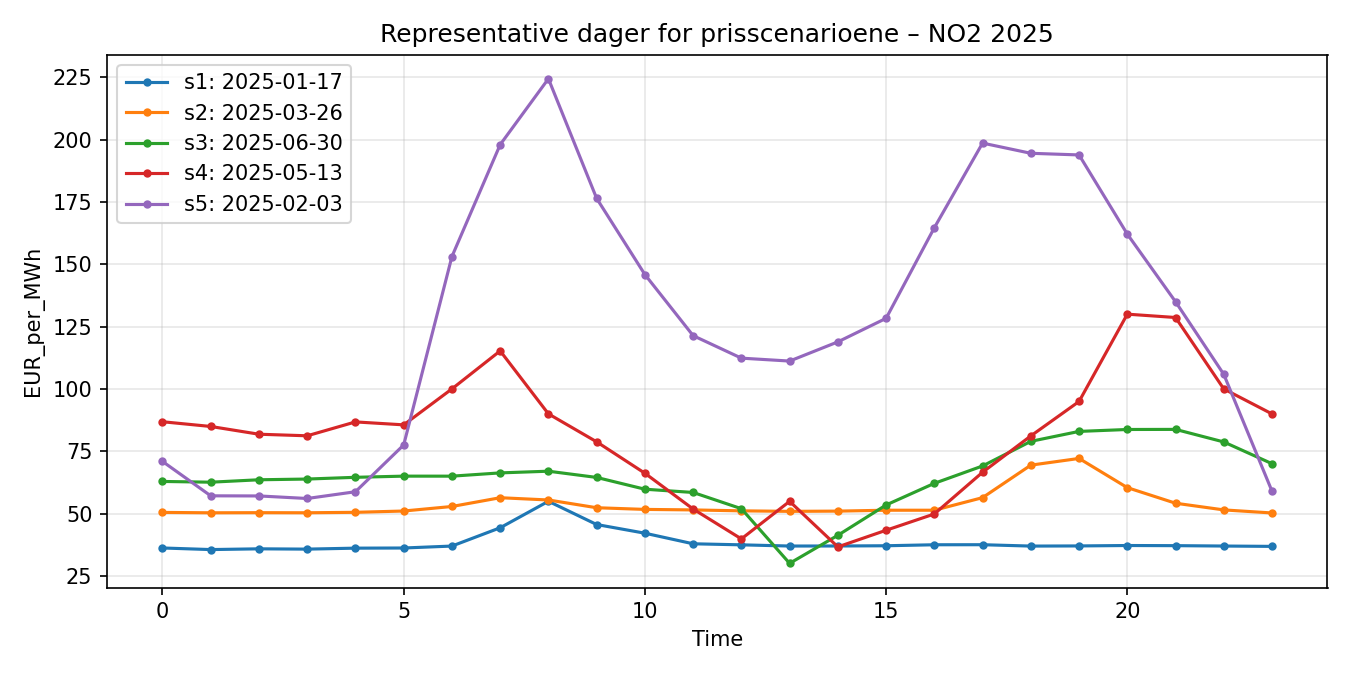
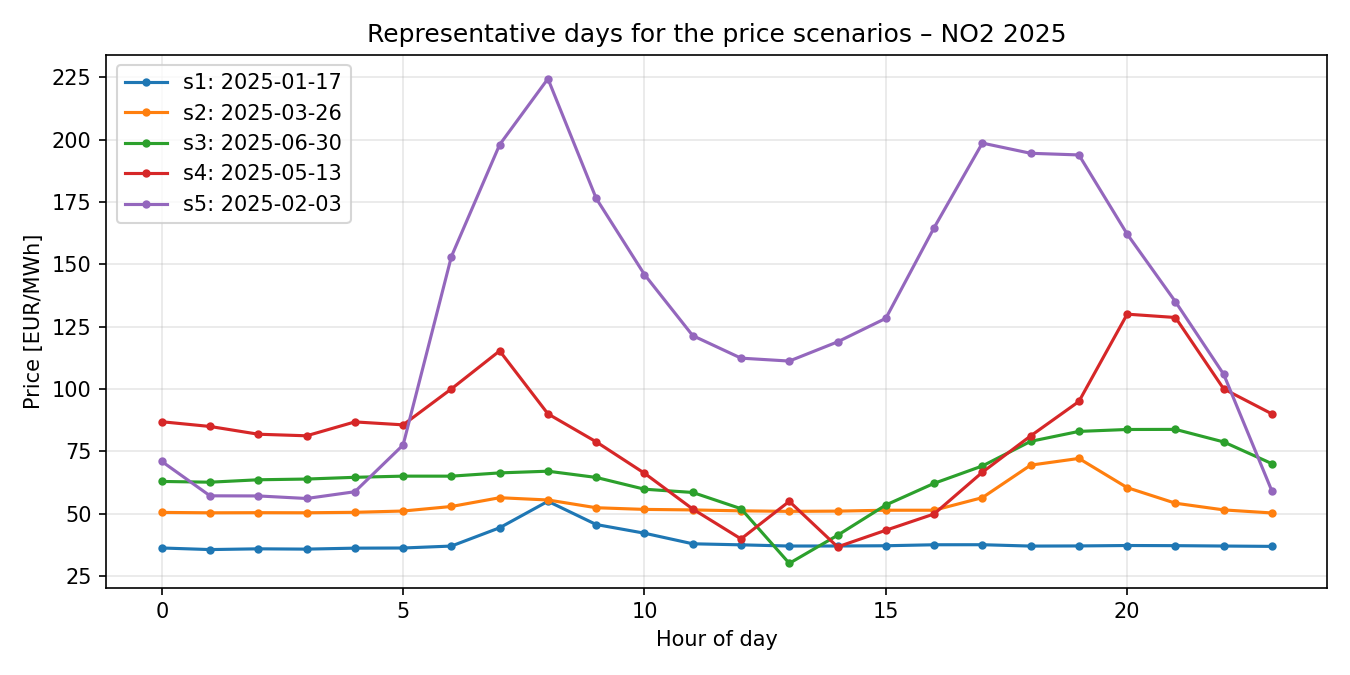
Oversette

diff --git a/vilde/find_scenario_days.py b/vilde/find_scenario_days.py
@@ -1,96 +1,99 @@
 """
-Finner den beste representative dagen for hvert av de fem prisscenarioene:
+Finds the most representative day for each of the five price scenarios:
 
-  s1  Lavt prisnivå med små prisvariasjoner
-  s2  Lavt/moderat prisnivå
-  s3  Normal/typisk prisdag
-  s4  Høyt prisnivå med større prisvariasjoner
-  s5  Ekstrem/høy prisdag med pristopp(er)
+  s1  Low price level with small price variations
+  s2  Low/moderate price level
+  s3  Normal/typical price day
+  s4  High price level with larger price variations
+  s5  Extreme/high price day with price spike(s)
 
-Metode:
-  1. Hver dag beskrives med tre nøkkeltall:
-       snitt – gjennomsnittspris i døgnet       (prisnivå)
-       std   – standardavvik over døgnet         (prisvariasjon)
-       maks  – høyeste timepris i døgnet         (pristopp)
-  2. Nøkkeltallene gjøres om til persentiler (0-100) blant alle årets dager,
-     slik at de blir sammenlignbare selv om de har ulik skala.
-  3. Hvert scenario har et mål i persentiler (se MAL under). Dagen som ligger
-     nærmest målet (euklidsk avstand) velges.
+Method:
+  1. Each day is described by three key figures:
+       mean – average price over the day          (price level)
+       std  – standard deviation over the day     (price variation)
+       max  – highest hourly price of the day     (price spike)
+  2. The key figures are converted to percentiles (0-100) among all days of
+     the year, so they become comparable even though they have different scales.
+  3. Each scenario has a target in percentiles (see TARGETS below). The day
+     closest to the target (Euclidean distance) is selected.
+
+All prices are in EUR/MWh.
 """
 
 import pandas as pd
 import numpy as np
 
-FIL = "NO2_2025_forenklet.csv"
-PRISKOLONNE = "EUR_per_MWh"
-UTFIL = "scenariodager_NO2_2025.csv"
+INPUT_FILE = "NO2_2025_forenklet.csv"
+PRICE_COLUMN = "EUR_per_MWh"   # prices in EUR/MWh
+PRICE_UNIT = "EUR/MWh"
+OUTPUT_FILE = "scenariodager_NO2_2025.csv"      # used by modell/prisdata.py and part2/
+SUMMARY_FILE = "scenario_oppsummering.csv"
 
-# Mål for hvert scenario, i persentiler: (snitt, std, maks)
-# Juster disse om dere vil ha andre definisjoner av scenarioene.
-MAL = {
-    "s1": {"beskrivelse": "Lavt prisnivå, små variasjoner",      "snitt": 10, "std": 10, "maks": 10},
-    "s2": {"beskrivelse": "Lavt/moderat prisnivå",                 "snitt": 30, "std": 30, "maks": 30},
-    "s3": {"beskrivelse": "Normal/typisk prisdag",                 "snitt": 50, "std": 50, "maks": 50},
-    "s4": {"beskrivelse": "Høyt prisnivå, større variasjoner",     "snitt": 80, "std": 80, "maks": 80},
-    "s5": {"beskrivelse": "Ekstrem/høy prisdag med pristopp(er)",  "snitt": 97, "std": 97, "maks": 99},
+# Target for each scenario, in percentiles: (mean, std, max)
+# Adjust these if you want other definitions of the scenarios.
+TARGETS = {
+    "s1": {"description": "Low price level, small variations",          "mean": 10, "std": 10, "max": 10},
+    "s2": {"description": "Low/moderate price level",                   "mean": 30, "std": 30, "max": 30},
+    "s3": {"description": "Normal/typical price day",                   "mean": 50, "std": 50, "max": 50},
+    "s4": {"description": "High price level, larger variations",        "mean": 80, "std": 80, "max": 80},
+    "s5": {"description": "Extreme/high price day with price spike(s)", "mean": 97, "std": 97, "max": 99},
 }
-NOKKELTALL = ["snitt", "std", "maks"]
+KEY_FIGURES = ["mean", "std", "max"]
 
-# --- 1. Les data og lag nøkkeltall per dag ------------------------------------
-df = pd.read_csv(FIL)
-df["time"] = df.groupby("dato").cumcount()   # time i døgnet, 0-23
+# --- 1. Read data and compute key figures per day -----------------------------
+df = pd.read_csv(INPUT_FILE)
+df["hour"] = df.groupby("dato").cumcount()   # hour of the day, 0-23
 
-dager = df.groupby("dato")[PRISKOLONNE].agg(snitt="mean", std="std", maks="max")
+days = df.groupby("dato")[PRICE_COLUMN].agg(mean="mean", std="std", max="max")
 
-# --- 2. Persentiler ---------------------------------------------------------
-pers = dager.rank(pct=True) * 100
+# --- 2. Percentiles -----------------------------------------------------------
+pct = days.rank(pct=True) * 100
 
-# --- 3. Avstand fra hver dag til hvert scenariomål ----------------------------
-avstand = pd.DataFrame({
-    s: np.sqrt(sum((pers[k] - mal[k]) ** 2 for k in NOKKELTALL))
-    for s, mal in MAL.items()
+# --- 3. Distance from each day to each scenario target ------------------------
+distance = pd.DataFrame({
+    s: np.sqrt(sum((pct[k] - target[k]) ** 2 for k in KEY_FIGURES))
+    for s, target in TARGETS.items()
 })
 
-# --- 4. Velg beste dag per scenario -------------------------------------------
-
-oppsummering = []
-rader = []
-for s, mal in MAL.items():
-    dato = avstand[s].idxmin()
-    oppsummering.append({
+# --- 4. Select the best day per scenario --------------------------------------
+summary = []
+rows = []
+for s, target in TARGETS.items():
+    date = distance[s].idxmin()
+    summary.append({
         "scenario": s,
-        "beskrivelse": mal["beskrivelse"],
-        "dato": dato,
-        "snitt": dager.loc[dato, "snitt"],
-        "std": dager.loc[dato, "std"],
-        "maks": dager.loc[dato, "maks"],
+        "description": target["description"],
+        "date": date,
+        "mean_EUR_per_MWh": days.loc[date, "mean"],
+        "std_EUR_per_MWh": days.loc[date, "std"],
+        "max_EUR_per_MWh": days.loc[date, "max"],
     })
-    priser = df.loc[df["dato"] == dato, PRISKOLONNE].values
-    for t, p in enumerate(priser):
-        rader.append({"scenario": s, "dato": dato, PRISKOLONNE: p,
-                      "time_start": t, "time_end": t + 1})
+    prices = df.loc[df["dato"] == date, PRICE_COLUMN].values
+    for t, p in enumerate(prices):
+        rows.append({"scenario": s, "date": date, PRICE_COLUMN: p,
+                     "time_start": t, "time_end": t + 1})
 
-oppsummering = pd.DataFrame(oppsummering)
-pd.set_option("display.width", 120)
-print(oppsummering.round({"snitt": 1, "std": 1, "maks": 1}).to_string(index=False))
-print(f"\nÅrssnitt: {dager['snitt'].mean():.1f} {PRISKOLONNE}")
+summary = pd.DataFrame(summary)
+pd.set_option("display.width", 140)
+print(summary.round(1).to_string(index=False))
+print(f"\nAnnual average price: {days['mean'].mean():.1f} {PRICE_UNIT}")
 
-# Lagre: én rad per scenario og time (5 x 24 rader)
-pd.DataFrame(rader).to_csv(UTFIL, index=False)
-oppsummering.to_csv("scenario_oppsummering.csv", index=False)
-print(f"\nLagret timeprisene til {UTFIL} og oppsummeringen til scenario_oppsummering.csv")
+# Save: one row per scenario and hour (5 x 24 rows)
+pd.DataFrame(rows).to_csv(OUTPUT_FILE, index=False)
+summary.to_csv(SUMMARY_FILE, index=False)
+print(f"\nSaved hourly prices to {OUTPUT_FILE} and the summary to {SUMMARY_FILE}")
 
-# --- Valgfritt: plott ---------------------------------------------------------
+# --- Optional: plot -----------------------------------------------------------
 try:
     import matplotlib.pyplot as plt
     plt.figure(figsize=(9, 4.5))
-    for _, r in oppsummering.iterrows():
-        priser = df.loc[df["dato"] == r["dato"], PRISKOLONNE].values
-        plt.plot(range(24), priser, marker="o", markersize=3,
-                 label=f"{r['scenario']}: {r['dato']}")
-    plt.xlabel("Time")
-    plt.ylabel(PRISKOLONNE)
-    plt.title("Representative dager for prisscenarioene – NO2 2025")
+    for _, r in summary.iterrows():
+        prices = df.loc[df["dato"] == r["date"], PRICE_COLUMN].values
+        plt.plot(range(24), prices, marker="o", markersize=3,
+                 label=f"{r['scenario']}: {r['date']}")
+    plt.xlabel("Hour of day")
+    plt.ylabel(f"Price [{PRICE_UNIT}]")
+    plt.title("Representative days for the price scenarios – NO2 2025")
     plt.legend()
     plt.grid(alpha=0.3)
     plt.tight_layout()

diff --git a/analyses/plots.py b/analyses/plots.py
@@ -1,19 +1,22 @@
 import pandas as pd
 import matplotlib.pyplot as plt
 
-# ---- Last inn data ----
-df = pd.read_csv("NO2_2025.csv")
+# ---- Load data ----
+df = pd.read_csv("/Users/vildevikane/Desktop/Battery-optimization/data/NO2_2025.csv")
 df["time_start"] = pd.to_datetime(df["time_start"], utc=True).dt.tz_convert("Europe/Oslo")
 df["date"] = df["time_start"].dt.date
 df["hour"] = df["time_start"].dt.hour
 
-price_col = "NOK_per_kWh"
+# Convert prices from EUR/kWh to EUR/MWh
+df["EUR_per_MWh"] = df["EUR_per_kWh"] * 1000
+price_col = "EUR_per_MWh"
+price_unit = "EUR/MWh"
 
-# ---- Beregn dags-statistikk ----
+# ---- Compute daily statistics ----
 daily = df.groupby("date")[price_col].agg(["mean", "min", "max"]).reset_index()
 daily["range"] = daily["max"] - daily["min"]
 
-# ---- Definer scenarioene ----
+# ---- Define the scenarios ----
 scenario_info = {
     "S1": {"pct": 0.10, "desc": "Low price level, small variations", "prob": 0.10},
     "S2": {"pct": 0.30, "desc": "Low/moderate price level",          "prob": 0.20},
@@ -22,42 +25,42 @@ scenario_info = {
     "S5": {"pct": 0.98, "desc": "Extreme/high price day, peak(s)",   "prob": 0.10},
 }
 
-# ---- Velg representativ dag for hvert scenario ----
+# ---- Select a representative day for each scenario ----
 selected_days = {}
 for name, info in scenario_info.items():
     if name == "S5":
-        # Ekte ekstremdag: dagen med høyeste maks-pris i hele datasettet
+        # True extreme day: the day with the highest max price in the whole dataset
         chosen = daily.loc[daily["max"].idxmax()]
     else:
         target = daily["mean"].quantile(info["pct"])
         candidates = daily.iloc[(daily["mean"] - target).abs().argsort()[:10]]
         if name in ["S1", "S3"]:
-            chosen = candidates.sort_values("range").iloc[0]        # lav variasjon
+            chosen = candidates.sort_values("range").iloc[0]        # low variation
         elif name == "S4":
-            chosen = candidates.sort_values("range", ascending=False).iloc[0]  # høy variasjon
+            chosen = candidates.sort_values("range", ascending=False).iloc[0]  # high variation
         else:
             chosen = candidates.iloc[0]
     selected_days[name] = chosen["date"]
 
-print("Valgte dager per scenario:")
+print("Selected days per scenario:")
 for name, d in selected_days.items():
     print(f"  {name}: {d}")
 
-# ---- Hent timesprofiler for valgte dager ----
+# ---- Get hourly profiles for the selected days ----
 scenario_profiles = {
     name: df[df["date"] == d].sort_values("hour").set_index("hour")[price_col]
     for name, d in selected_days.items()
 }
 
-# ---- Plot 1: Timesprofil for hvert scenariodøgn ----
+# ---- Plot 1: Hourly profile for each scenario day ----
 fig, ax = plt.subplots(figsize=(10, 6))
 for name, profile in scenario_profiles.items():
     ax.plot(profile.index, profile.values, marker="o",
             label=f"{name} ({selected_days[name]}) - {scenario_info[name]['desc']}")
 
-ax.set_xlabel("Time på døgnet")
-ax.set_ylabel("Pris (NOK/kWh)")
-ax.set_title("Representative scenariodøgn for NO2, 2025")
+ax.set_xlabel("Hour of day")
+ax.set_ylabel(f"Price [{price_unit}]")
+ax.set_title("Representative scenario days for NO2, 2025")
 ax.set_xticks(range(0, 24))
 ax.legend(fontsize=8, loc="upper left")
 ax.grid(True, alpha=0.3)
@@ -65,35 +68,35 @@ plt.tight_layout()
 plt.savefig("scenario_profiles.png", dpi=150)
 plt.show()
 
-# ---- Plot 2: Sannsynlighet vs. gjennomsnittspris per scenario ----
+# ---- Plot 2: Probability vs. average price per scenario ----
 fig, ax1 = plt.subplots(figsize=(8, 5))
 names = list(scenario_info.keys())
 probs = [scenario_info[n]["prob"] for n in names]
 means = [scenario_profiles[n].mean() for n in names]
 
 ax1.bar(names, means, color="steelblue")
-ax1.set_ylabel("Gjennomsnittspris (NOK/kWh)")
+ax1.set_ylabel(f"Average price [{price_unit}]")
 
 ax2 = ax1.twinx()
 ax2.plot(names, probs, color="darkred", marker="o", linestyle="--")
-ax2.set_ylabel("Sannsynlighet", color="darkred")
+ax2.set_ylabel("Probability", color="darkred")
 ax2.tick_params(axis="y", labelcolor="darkred")
 
-ax1.set_title("Gjennomsnittspris og sannsynlighet per scenario")
+ax1.set_title("Average price and probability per scenario")
 plt.tight_layout()
 plt.savefig("scenario_summary.png", dpi=150)
 plt.show()
 
-# ---- Oppsummeringstabell ----
+# ---- Summary table ----
 summary = pd.DataFrame({
     "Scenario": names,
-    "Dato": [selected_days[n] for n in names],
-    "Beskrivelse": [scenario_info[n]["desc"] for n in names],
-    "Sannsynlighet": probs,
-    "Snittpris": [round(scenario_profiles[n].mean(), 3) for n in names],
-    "Makspris": [round(scenario_profiles[n].max(), 3) for n in names],
-    "Minpris": [round(scenario_profiles[n].min(), 3) for n in names],
+    "Date": [selected_days[n] for n in names],
+    "Description": [scenario_info[n]["desc"] for n in names],
+    "Probability": probs,
+    "Mean_price_EUR_per_MWh": [round(scenario_profiles[n].mean(), 2) for n in names],
+    "Max_price_EUR_per_MWh": [round(scenario_profiles[n].max(), 2) for n in names],
+    "Min_price_EUR_per_MWh": [round(scenario_profiles[n].min(), 2) for n in names],
 })
-print("\nOppsummeringstabell:")
+print("\nSummary table:")
 print(summary.to_string(index=False))
 summary.to_csv("scenario_summary.csv", index=False)
